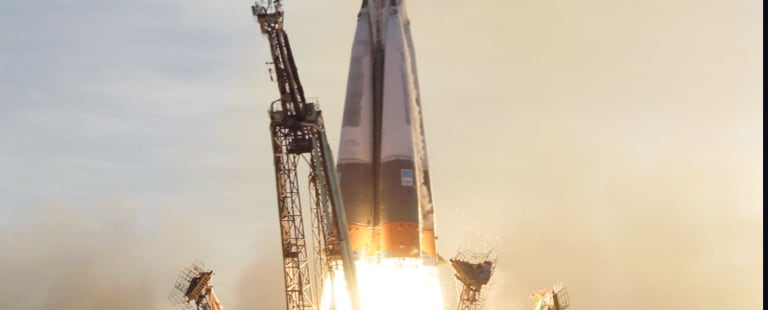
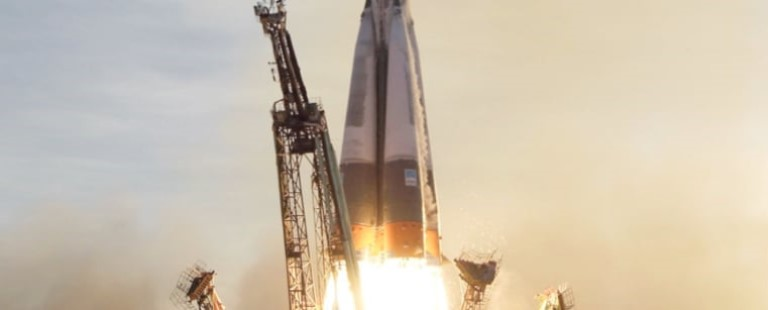
Feat: Fix layout for technology page
- Layouts for mobile, tablet, and desktop
- Change launch vehicle image with better crop

diff --git a/index.css b/index.css
@@ -519,7 +519,7 @@ p {
 }
 
 .numbered-indicators > button {
-  --size: 8rem;
+  --size: clamp(4rem, 8vw, 8rem);
 
   width: var(--size);
   height: var(--size);
@@ -711,8 +711,47 @@ p {
   grid-area: content;
 }
 
+/* technology */
+
+.grid-container--technology {
+  grid-template-columns: minmax(1.6rem, 1fr) repeat(2, minmax(0, 64rem)) minmax(
+      1.6rem,
+      1fr
+    );
+  grid-template-areas:
+    ". title title ."
+    "image image image image"
+    ". numbers numbers ."
+    ". content content .";
+  padding-inline: unset;
+}
+
+.grid-container--technology > .numbered-title {
+  grid-area: title;
+}
+
+.grid-container--technology > .numbered-indicators {
+  grid-area: numbers;
+}
+
+.grid-container--technology > .technology-info {
+  grid-area: content;
+  padding-inline: 1.6rem;
+}
+
+.grid-container--technology > .technology-image {
+  grid-area: image;
+  max-width: 100%;
+}
+
+.grid-container--technology > .technology-image > img {
+  min-height: 17rem;
+}
+
 @media (min-width: 35em) {
-  .grid-container--destination {
+  .grid-container--destination,
+  .grid-container--crew,
+  .grid-container--technology {
     padding-top: clamp(4rem, 4vh, 6rem);
   }
 
@@ -731,8 +770,6 @@ p {
   }
 
   .grid-container--crew {
-    padding-top: clamp(4rem, 4vh, 6rem);
-
     grid-template-areas:
       "title"
       "content"
@@ -749,6 +786,23 @@ p {
 
   .grid-container--crew > .crew-image {
     align-self: end;
+  }
+
+  .grid-container--technology {
+    --flow-space: 4rem;
+  }
+
+  .technology-info > * {
+    --flow-space: 1.8rem;
+  }
+
+  .grid-container--technology > .technology-image {
+    --flow-space: 0;
+  }
+
+  .grid-container--technology > .numbered-title {
+    margin-bottom: min(3vh, 6.4rem);
+    justify-self: start;
   }
 }
 
@@ -834,5 +888,35 @@ p {
   .grid-container--crew > .crew-image {
     justify-self: center;
     width: max(30rem, 100%);
+  }
+
+  .grid-container--technology {
+    grid-template-columns:
+      minmax(1.6rem, 1fr) minmax(0, 10rem) minmax(0, 80rem) minmax(0, 54rem)
+      minmax(0, 1fr);
+
+    grid-template-areas:
+      ". title title title . "
+      ". numbers content image .";
+
+    align-content: start;
+    justify-items: start;
+    text-align: left;
+  }
+
+  .grid-container--technology > article {
+    max-width: unset;
+  }
+
+  .grid-container--technology > article > p {
+    max-width: 45ch;
+  }
+
+  .grid-container--technology > .numbered-indicators {
+    flex-direction: column;
+  }
+
+  .grid-container--technology > .technology-image {
+    justify-self: end;
   }
 }

diff --git a/technology.html b/technology.html
@@ -76,7 +76,7 @@
       </nav>
     </header>
 
-    <main id="main" class="grid-container grid-container--destination flow">
+    <main id="main" class="grid-container grid-container--technology flow">
       <h1 class="numbered-title">
         <span aria-hidden="true">03</span>Space launch 101
       </h1>
@@ -117,7 +117,7 @@
 
       <!-- images -->
 
-      <picture class="planet-image" data-image-for="launch-vehicle-tab">
+      <picture class="technology-image" data-image-for="launch-vehicle-tab">
         <source
           media="(min-width: 53.75em)"
           srcset="../assets/technology/image-launch-vehicle-portrait.jpg"
@@ -129,8 +129,9 @@
         />
       </picture>
 
-      <picture class="planet-image hidden" data-image-for="spaceport-tab">
+      <picture class="technology-image hidden" data-image-for="spaceport-tab">
         <source
+          media="(min-width: 53.75em)"
           srcset="../assets/technology/image-spaceport-portrait.jpg"
           type="image/webp"
         />
@@ -140,8 +141,12 @@
         />
       </picture>
 
-      <picture class="planet-image hidden" data-image-for="space-capsule-tab">
+      <picture
+        class="technology-image hidden"
+        data-image-for="space-capsule-tab"
+      >
         <source
+          media="(min-width: 53.75em)"
           srcset="../assets/technology/image-space-capsule-portrait.jpg"
           type="image/webp"
         />
@@ -156,7 +161,7 @@
       <!-- text descriptions -->
 
       <article
-        class="crew-info flow"
+        class="technology-info flow"
         id="launch-vehicle-tab"
         tabindex="0"
         role="tabpanel"
@@ -176,7 +181,7 @@
       </article>
 
       <article
-        class="crew-info flow hidden"
+        class="technology-info flow hidden"
         id="spaceport-tab"
         tabindex="0"
         role="tabpanel"
@@ -195,7 +200,7 @@
       </article>
 
       <article
-        class="crew-info flow hidden"
+        class="technology-info flow hidden"
         id="space-capsule-tab"
         tabindex="0"
         role="tabpanel"
